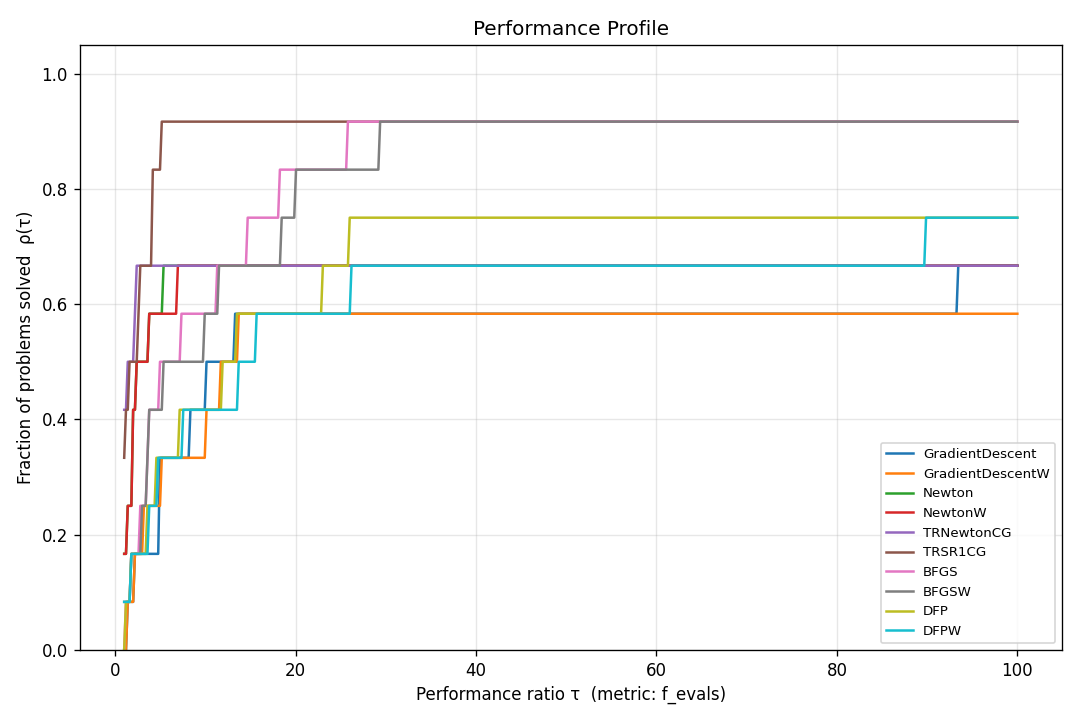
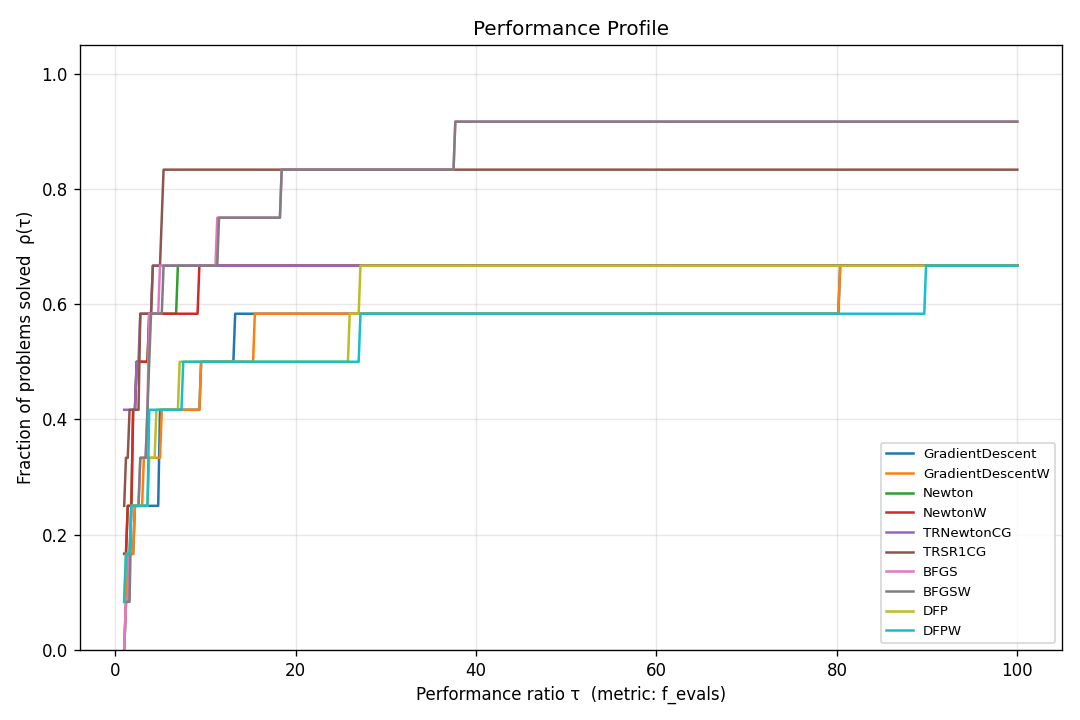
Update run_experiments.py options, refresh results and convergence plots

diff --git a/run_experiments.py b/run_experiments.py
@@ -55,6 +55,8 @@ METHODS = [
 # All problems have Hessians implemented, but n=1000 ones may be slow for Newton
 SKIP_HESSIAN_METHODS = {'Newton', 'NewtonW', 'TRNewtonCG'}
 LARGE_PROBLEMS = {'P3_quad_1000_10', 'P4_quad_1000_1000', 'P8_rosenbrock_100', 'P11_exponential_1000'}
+# P4 also skips dense quasi-Newton (BFGS/DFP) due to O(n^2) cost at n=1000
+SKIP_DENSE_QN_PROBLEMS = {'P4_quad_1000_1000'}
 
 OPTIONS = {
     'term_tol': 1e-6,
@@ -64,10 +66,10 @@ OPTIONS = {
     'tau': 0.5,
     'c2_ls': 0.9,
     'delta0': 1.0,
-    'delta_max': 100.0,
-    'c1_tr': 0.1,
-    'c2_tr': 0.75,
-    'term_tol_CG': 1e-6,
+    'delta_max': 500.0,     # increased from 100 → 500 (TR methods benefit on P1-P4)
+    'c1_tr': 0.25,          # increased from 0.1 → 0.25 (standard acceptance threshold)
+    'c2_tr': 0.9,           # increased from 0.75 → 0.9 (more aggressive TR expansion)
+    'term_tol_CG': 1e-4,    # relaxed from 1e-6 → 1e-4 (inexact CG is more efficient)
     'max_iterations_CG': 200,
 }
 
@@ -86,6 +88,13 @@ def run_all(verbose=True):
                 results[(prob.name, method)] = {'skipped': True, 'reason': 'n too large for H'}
                 if verbose:
                     print(f"  SKIP  {prob.name:25s}  {method:20s}  (large n, Hessian too expensive)")
+                continue
+            # Skip dense quasi-Newton for P4 (n=1000, O(n^2) matrix ops too slow)
+            DENSE_QN = {'BFGS', 'BFGSW', 'DFP', 'DFPW'}
+            if prob.name in SKIP_DENSE_QN_PROBLEMS and method in DENSE_QN:
+                results[(prob.name, method)] = {'skipped': True, 'reason': 'n=1000 dense QN too slow'}
+                if verbose:
+                    print(f"  SKIP  {prob.name:25s}  {method:20s}  (n=1000, dense quasi-Newton too slow)")
                 continue
 
             try:
@@ -156,15 +165,26 @@ def print_summary_table(results, problems):
 # ===== CONVERGENCE PLOTS (f vs. iteration) =====
 
 def plot_convergence(results, problems, save_dir=None):
-    """Plot f(x_k) vs iteration for each problem (all methods on one axes)."""
+    """Plot f(x_k) - f* vs iteration (log scale) for each problem."""
     for prob in problems:
+        # Collect all f values across methods to find f* (best known minimum)
+        all_f = []
+        for method in METHODS:
+            r = results.get((prob.name, method), {})
+            if not r.get('skipped') and r.get('f_hist'):
+                all_f.extend(r['f_hist'])
+        if not all_f:
+            continue
+        f_star = min(all_f)   # best observed value; used to shift so log scale works
+
         fig, ax = plt.subplots(figsize=(8, 5))
         any_plotted = False
         for method in METHODS:
             r = results.get((prob.name, method), {})
             if r.get('skipped') or not r.get('f_hist'):
                 continue
-            ax.semilogy(r['f_hist'], label=method, alpha=0.8)
+            shifted = np.array(r['f_hist']) - f_star + 1e-14   # shift to positive
+            ax.semilogy(shifted, label=method, alpha=0.8)
             any_plotted = True
 
         if not any_plotted:
@@ -172,7 +192,7 @@ def plot_convergence(results, problems, save_dir=None):
             continue
 
         ax.set_xlabel('Iteration')
-        ax.set_ylabel('f(x_k)')
+        ax.set_ylabel('f(x_k) − f*  (log scale)')
         ax.set_title(f'Convergence — {prob.name}')
         ax.legend(fontsize=7, ncol=2)
         ax.grid(True, alpha=0.3)

diff --git a/problems.py b/problems.py
@@ -52,8 +52,12 @@ class Problem:
 
 def _load_quad_mat(mat_name, n):
     """Load Q from a .mat file and generate q with the course-standard seed."""
+    import scipy.sparse
     mat = scipy.io.loadmat(os.path.join(_MAT_DIR, mat_name))
     Q = mat['Q']
+    if scipy.sparse.issparse(Q):
+        Q = Q.toarray()   # .mat files store Q as sparse; convert to dense ndarray
+    Q = np.array(Q, dtype=float)
     np.random.seed(0)
     q = np.random.normal(size=n)
     x0 = np.zeros(n)
